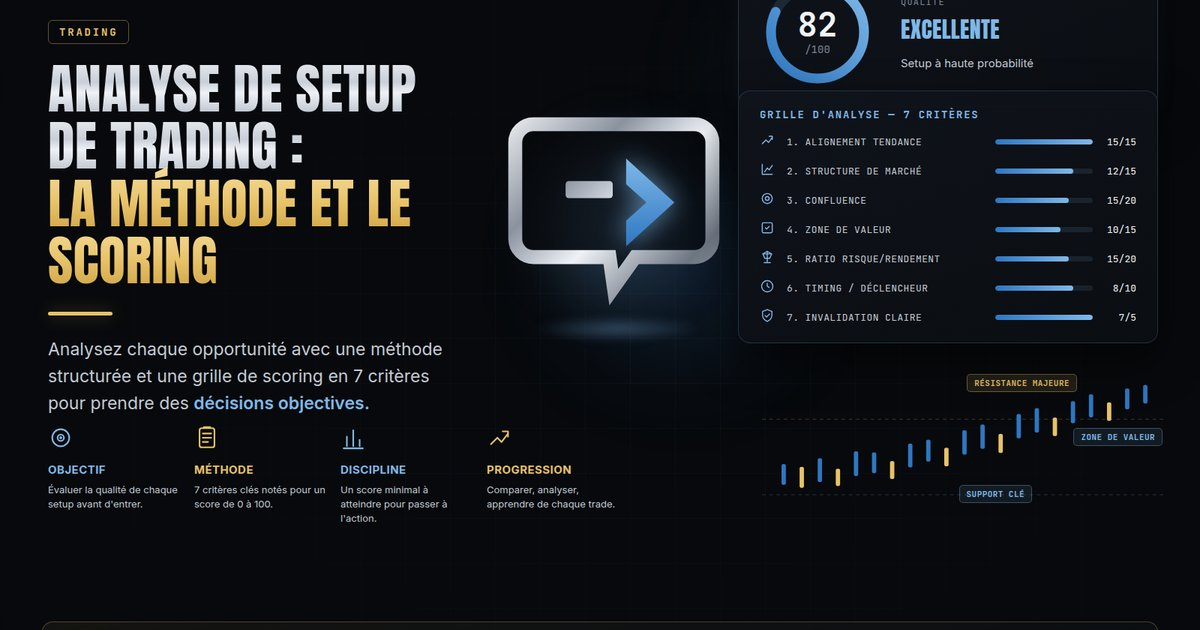
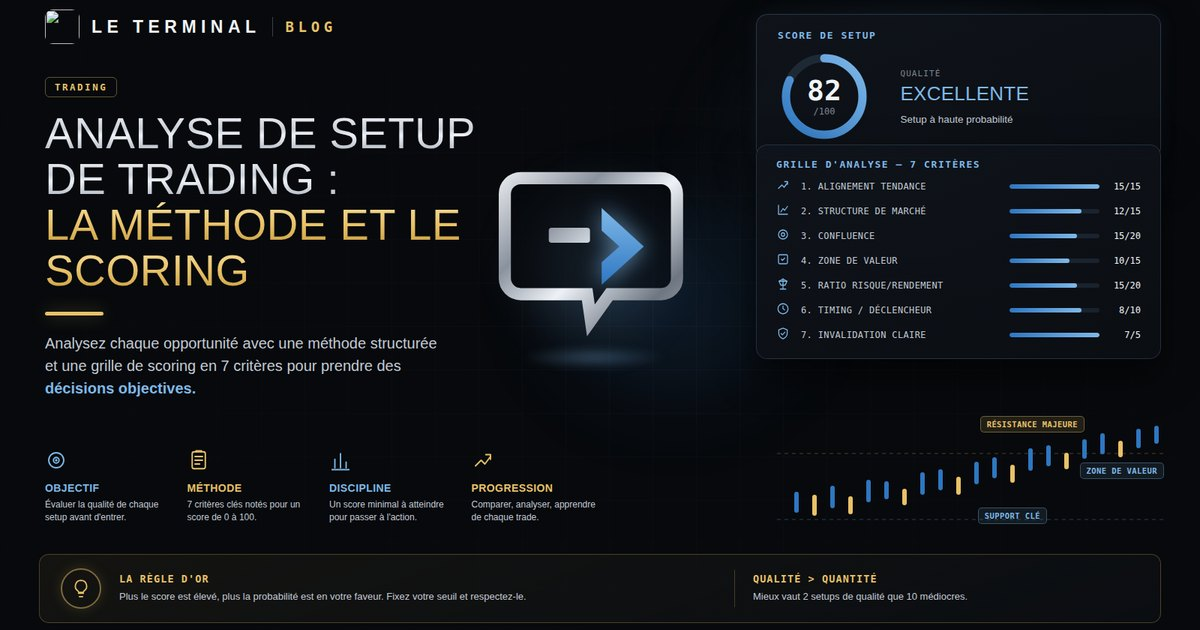
fix(blog): bannière « Analyse de setup » au format standard 1600×900
Uniformise la bannière de l'article avec les 5 autres (1600×900 hero
WebP, 1200×630 OG). Recompose la mise en page compacte (score, grille
7 critères, graphique annoté, piliers, bandeau règle d'or) pour tenir
dans la hauteur standard. Corrige les attributs height 1140 → 900 sur
l'article et la vignette du listing.

Claude-Session: https://claude.ai/code/session_014kPi9MCnKhbTbH3fW679tU

diff --git a/blog/index.html b/blog/index.html
@@ -154,7 +154,7 @@
 
   <section class="bl-grid">
     <article class="bl-card">
-      <a class="bl-card__thumb" href="/blog/analyse-de-setup-trading" tabindex="-1" aria-hidden="true"><img src="/blog/img/analyse-de-setup-trading.webp" width="1600" height="1140" alt="" loading="lazy"></a>
+      <a class="bl-card__thumb" href="/blog/analyse-de-setup-trading" tabindex="-1" aria-hidden="true"><img src="/blog/img/analyse-de-setup-trading.webp" width="1600" height="900" alt="" loading="lazy"></a>
       <span class="bl-card__tag" style="margin-top:20px">Analyse de setup</span>
       <h2 class="bl-card__title"><a href="/blog/analyse-de-setup-trading">Analyse de setup de trading : la méthode et le scoring</a></h2>
       <p class="bl-card__exc" data-en="Score your setups before entering with a 7-criteria grid (structure, confluence, RR): a reproducible method plus a worked example.">Notez vos setups avant d'entrer avec une grille en 7 critères (structure, confluence, RR) : une méthode reproductible et un exemple chiffré.</p>

diff --git a/blog/analyse-de-setup-trading.html b/blog/analyse-de-setup-trading.html
@@ -175,7 +175,7 @@
   </div>
 
   <figure class="bl-art__hero">
-    <img src="/blog/img/analyse-de-setup-trading.webp" width="1600" height="1140" alt="Analyse de setup de trading : score 82/100, grille en 7 critères et graphique annoté" fetchpriority="high">
+    <img src="/blog/img/analyse-de-setup-trading.webp" width="1600" height="900" alt="Analyse de setup de trading : score 82/100, grille en 7 critères et graphique annoté" fetchpriority="high">
   </figure>
 
   <div class="bl-lead">
